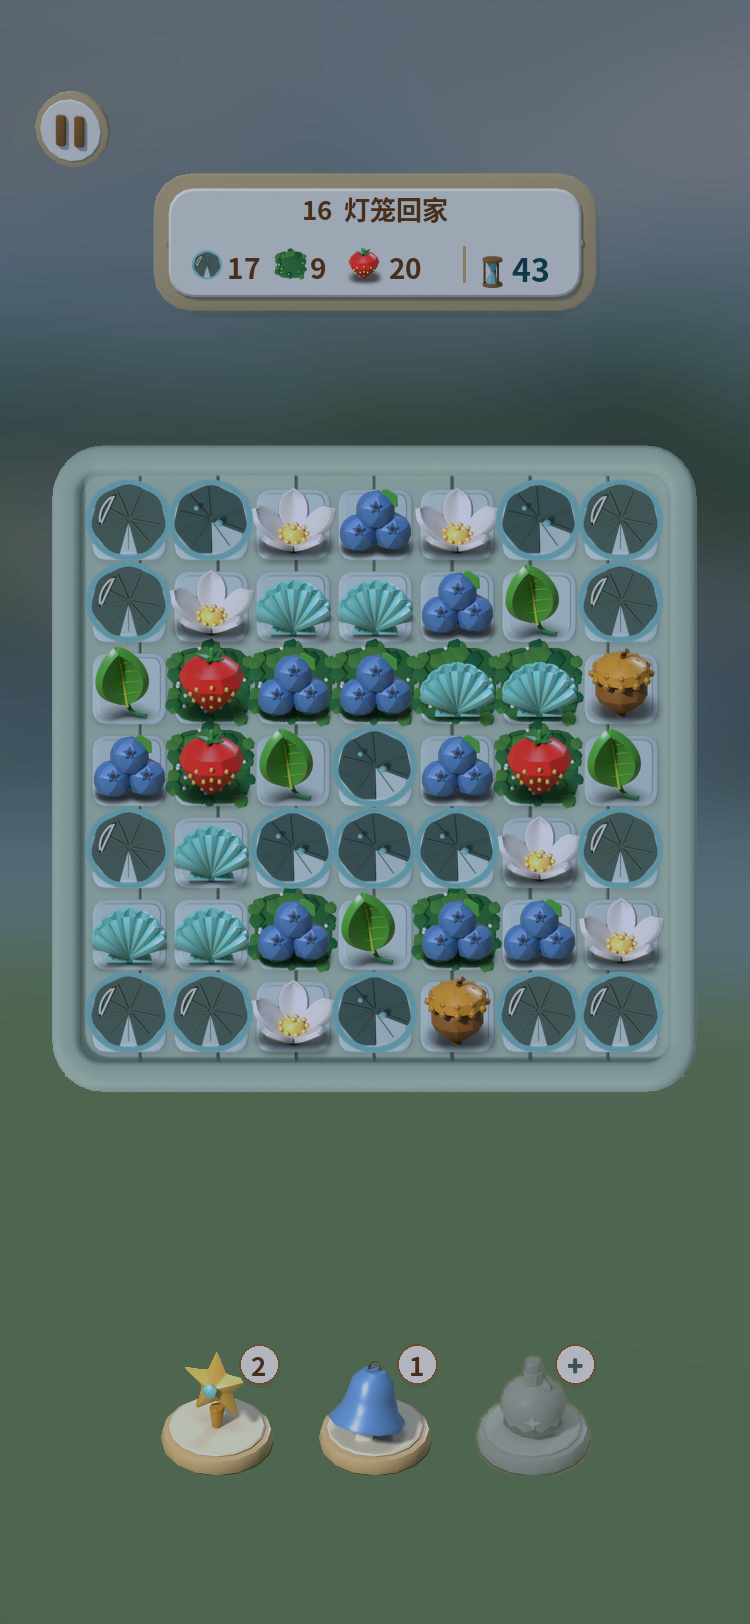
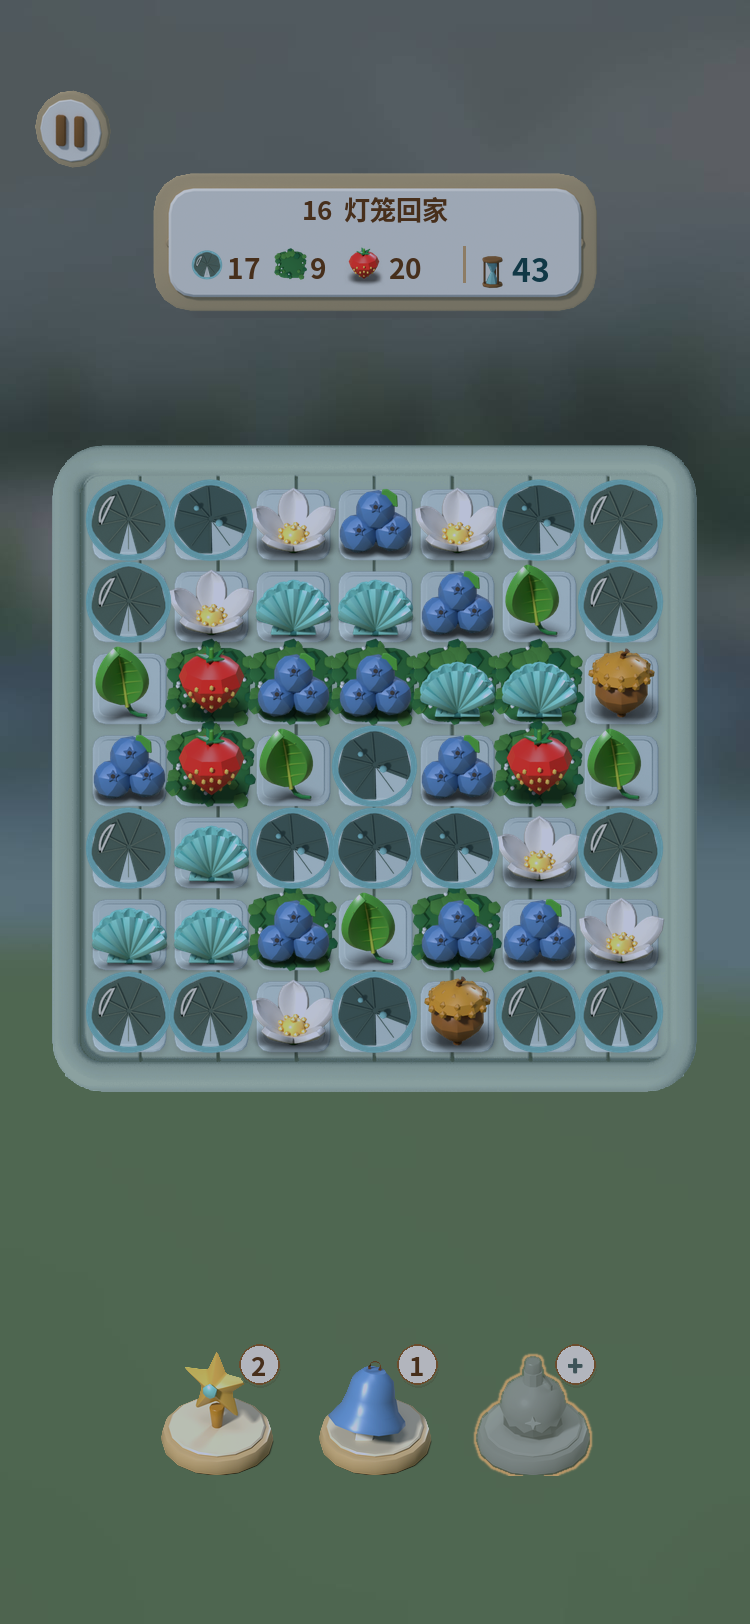
ui(b16): v2.3 远景/夜间/底座描边/WARN 档/弹窗缩放/木牌淡入
- lake_bg v2.3: 大模糊 0.35/32px，仅 y<420 景深，对比 0.92；远树降饱和 0.6
- 夜间 y<500 亮度 ×0.85；空道具底座描边 #c9a26e，不受夜间乘色
- measure_visible: PASS/WARN(余量<1)/FAIL；草地 HSV 75–95°/27–33%/55–68
- ruleGuideDy 接收 popupScale()；规则文案 ≤8 行
- 木牌重试成功：平面按钮 → 3D 木牌 0.2 s 淡入
- 已知：L13 白天/夜间显著性 9.73/9.69 < 10（门槛未放宽）

测试：
  QF_TYPESCRIPT_MODULE=/tmp/ts5/node_modules/typescript node tools/ui-b16-fixes/test_b16_ui_fixes.cjs
  python3 docs/r6/ui/tools/measure_visible.py
  QF_TYPESCRIPT_MODULE=/tmp/ts5/node_modules/typescript node tools/journey-integration/run-suite.cjs

diff --git a/creator-build-project/assets/scripts/WorldIntegrationBoot.ts b/creator-build-project/assets/scripts/WorldIntegrationBoot.ts
@@ -601,7 +601,7 @@ export class WorldIntegrationBoot extends Component {
   * instead the signpost enters as the next step of the same sequence, after the buttons: same 0.25 s, same cubic
   * ease-out, rising the same 24 px out of the water while fading in (IslandProps.setSignEntrance). */
  private applyIslandEntrance(dt:number,mainline:Node|null){if(this.islandEntrance<0&&this.signEntrance<0)return;const step=Math.max(0,Math.min(dt,.1))/.25;
-  if(this.islandEntrance<0){this.signEntrance=Math.min(1,this.signEntrance+step);const e=1-Math.pow(1-this.signEntrance,3);this.setSign(e,24*(1-e));if(this.signEntrance>=1)this.signEntrance=-1;return;}
+  if(this.islandEntrance<0){this.signEntrance=Math.min(1,this.signEntrance+(this.signFadeS>0?Math.max(0,Math.min(dt,.1))/this.signFadeS:step));const e=1-Math.pow(1-this.signEntrance,3);this.setSign(e,24*(1-e));if(this.signEntrance>=1){this.signEntrance=-1;this.signFadeS=0;}return;}
   this.islandEntrance=Math.min(1,this.islandEntrance+step);const e=1-Math.pow(1-this.islandEntrance,3),k=.94+.06*e,dy=-24*(1-e);
   if(mainline?.active&&!this.propSign){const p=mainline.position;mainline.setPosition(p.x,p.y+dy,p.z);mainline.setScale(k,k,1);}
   const dock=this.canvas?.getChildByName('IslandJourneyOverlay')?.getChildByName('IslandUtilityDock');if(dock){dock.setPosition(0,dy,0);dock.setScale(k,k,1);}
@@ -617,7 +617,7 @@ export class WorldIntegrationBoot extends Component {
   * - level/skycity (+ their loading) and paused: unchanged (the island behind the board keeps its sign; no flicker on
   *   a level round trip). */
  private signShown=1;private signOut=-1;private signPrev='';
- private signRetry=0;private signRetryAt=0;
+ private signRetry=0;private signRetryAt=0;/** v2.3：重试成功时的淡入时长（0 = 用常规 0.25 s 入场） */private signFadeS=0;
  private setSign(e:number,risePx:number){const ok=this.islandProps?.setSignEntrance(e,risePx);if(ok!==false)this.signShown=e;} // b16-fix P1: props not ready -> signShown unchanged, so the entrance replays once they are
  private gateSignEntrance(state:string,dt=0){const p=this.islandProps,prev=this.signPrev;this.signPrev=state;if(!p?.ready)return;
   if(SIGN_AWAY_STATES.indexOf(state)>=0){this.signEntrance=-1;
@@ -641,7 +641,7 @@ export class WorldIntegrationBoot extends Component {
   if(s.state!=='island')this.signRetry=0;
   if(sign&&p&&this.islandEntrance<0&&this.signEntrance<0&&typeof (p as any).signVisible==='function'&&!(p as any).signVisible()){
    if(this.signRetry<1){this.signRetry++;this.signShown=0;this.signEntrance=0;}
-   else{const now=Date.now();if(now-this.signRetryAt>=1000){this.signRetryAt=now;this.signRetry++;this.setSign(1,0);}if(!(p as any).signVisible())sign=null;}}
+   else{const now=Date.now();if(now-this.signRetryAt>=1000){this.signRetryAt=now;this.signRetry++;this.setSign(1,0);}if(!(p as any).signVisible())sign=null;else{this.signShown=0;this.signEntrance=0;this.signFadeS=.2;sign={x:sign.x,y:sign.y,width:0,height:0};}}}
   else if(sign&&this.islandEntrance<0&&this.signEntrance<0)this.signRetry=0;
   this.propSign=!!sign;setPropTapLook(!!p?.ready&&(this.propSign||!!this.islandJourney?.dockVisible()));
   if(sign&&(this.islandEntrance>=0||this.signEntrance>=0))sign={x:sign.x,y:sign.y,width:0,height:0}; // hit area live only once the signpost entrance finished

diff --git a/creator-build-project/assets/scripts/ManagedMobileBoardUI.ts b/creator-build-project/assets/scripts/ManagedMobileBoardUI.ts
@@ -5,8 +5,8 @@ import type { LevelBackgroundStatus, LevelBackgroundFrame } from './world-r2/Lev
 import { GameAudio } from './audio/GameAudio';
 import { BoardArt, PIECE_KEYS, TOOL_KEYS, toolDisplaySize } from './ui/BoardArt';
 import { MINIGAME } from 'cc/env';
-import { ruleGuideDy, boardLayout, boardSafeInsets, cellCenter, pickToolBar, qaForcedToolBar, toolSlots, CELL, IdleHintClock, TOAST_S, type BoardLayout, type SafeArea } from './ui/BoardLayout';
-import { PopupStack, TintSet, artButton, makeLabel, measure, playSound, pressable as bindPressable, resetPresses, type PressHandle } from './ui/PopupKit';
+import { ruleGuideDy, RULE_GUIDE_MAX_LINES, boardLayout, boardSafeInsets, cellCenter, pickToolBar, qaForcedToolBar, toolSlots, CELL, IdleHintClock, TOAST_S, type BoardLayout, type SafeArea } from './ui/BoardLayout';
+import { PopupStack, popupScale, TintSet, artButton, makeLabel, measure, playSound, pressable as bindPressable, resetPresses, type PressHandle } from './ui/PopupKit';
 import { INTRO_TEXT, SEEN_ID, openBag, openReward, openSettings, openToolIntro, type RewardItem } from './ui/CommonPanels';
 import { openPause, openRestartConfirm, openResult, type ResultModel, type ResultReward } from './ui/BoardPanels';
 import { hasSeenTool, reducedMotion } from './ui/UiPrefs';
@@ -942,9 +942,9 @@ export class ManagedMobileBoardUI extends Component {
     // b16-fix P2（build05 全流程测试 P2-3：L13 规则弹窗正文左侧被裁约 10px）：正文原来居中、宽 580，比木框内沿（680 宽、两侧木边）还宽，
     // 左右都压到木边下面。改为左对齐、文字盒宽 RULE_BODY_W=480，两侧各留 100（木边约 70 + 安全边距约 30，即屏幕上约 15pt），行数按每段 472 估算，避免 CLAMP 裁字。
     const RULE_BODY_W = 480;
-    const body = [guide.rule, guide.tool?.description].filter(Boolean).join('\n'), lines = Math.min(9, body.split('\n').reduce((n, ln) => n + Math.max(1, Math.ceil(measure(ln, 28) / (RULE_BODY_W - 8))), 0));
+    const body = [guide.rule, guide.tool?.description].filter(Boolean).join('\n'), lines = Math.min(RULE_GUIDE_MAX_LINES, body.split('\n').reduce((n, ln) => n + Math.max(1, Math.ceil(measure(ln, 28) / (RULE_BODY_W - 8))), 0));
     const ph = 104 + 48 + 40 + lines * 40 + 48 + 104 + 72, vw = this.layoutInfo?.width || 390, vh = this.layoutInfo?.height || 844, plateBottom = this.geo ? this.geo.plate.y + this.geo.plate.height / 2 : 0,
-      p = this.popups.open({ name: 'RuleGuidePanel', height: ph, title: guide.title || '这一关的规则', dy: ruleGuideDy(vw, vh, ph, plateBottom, this.layoutInfo?.safe?.bottom ?? 34) });
+      p = this.popups.open({ name: 'RuleGuidePanel', height: ph, title: guide.title || '这一关的规则', dy: ruleGuideDy(vw, vh, ph, plateBottom, this.layoutInfo?.safe?.bottom ?? 34, popupScale(vw, vh)) });
     p.text(guide.phaseLabel + (guide.heldTurns ? ' · 固定 ' + guide.heldTurns + ' 次行动' : ''), 0, 128, 26, 'brown2', { bold: false, width: RULE_BODY_W });
     p.text(body, -RULE_BODY_W / 2, 192 + lines * 20, 28, 'brown', { bold: false, width: RULE_BODY_W, lines, height: lines * 40 + 8, align: 'left', name: 'RuleBody' });
     p.button('primary', '明白了', 0, ph - 72 - 52, 400, 104, () => p.close(), { fontSize: 36, name: 'GotIt' });

diff --git a/creator-build-project/assets/scripts/ui/BoardLayout.ts b/creator-build-project/assets/scripts/ui/BoardLayout.ts
@@ -131,9 +131,12 @@ export function boardSafeInsets(w: number, h: number): SafeArea & { portrait: bo
 
 /** b16-fix（验收 9d4fcaa8：L13 规则弹窗在 320×568 上要不顶到 HUD）：弹窗默认居中；面板顶（含半块标题木牌 52.5 设计 px）若高过信息牌底 + 12 pt，
  *  就整体往下挪，但底边不低于屏幕底安全区上方 12 pt。返回 PopupPanel 的 dy（750 设计 px，正值向下）。纯函数。 */
-export function ruleGuideDy(width: number, height: number, panelH: number, plateBottom: number, safeBottom: number): number {
-  const s = Math.max(0.3, Math.min(width / 750, height / 1300, 0.62)), top = height / 2 - panelH * s / 2 - 52.5 * s, want = plateBottom + 12;
+export function ruleGuideDy(width: number, height: number, panelH: number, plateBottom: number, safeBottom: number, scale: number): number {
+  // v2.3：scale 由调用方传 PopupKit.popupScale(width, height)，这里不再抄缩放公式
+  const s = scale, top = height / 2 - panelH * s / 2 - 52.5 * s, want = plateBottom + 12;
   const room = (height - safeBottom - 12) - (height / 2 + panelH * s / 2);
   const down = Math.max(0, Math.min(want - top, room));
   return down / s;
 }
+/** 规则弹窗正文行数上限（320×568 下 9 行没有余量）。 */
+export const RULE_GUIDE_MAX_LINES = 8;

diff --git a/docs/r6/ui/tools/measure_visible.py b/docs/r6/ui/tools/measure_visible.py
@@ -3,7 +3,8 @@
 #       各可见区域中位色与饱和度：草地、树林、左侧房顶（红色像素）、左缘水面。
 # 合格线（ui-audit 2026-10-22）：背景饱和度 ≤ 棋盘饱和度；显著性 ≥ 10；白天草地约 135/160/95；房顶饱和度 < 40%；夜间湖色 B ≥ G > R。
 # v2.2：加合格判定（ui-audit 2026-10-22/ui-b16-fixes-9d4fcaa8 的 A/B 目标），任一不合格退出码 1。文件名含 night 按夜间判定，或加 --night / --day 强制。
-#   白天：背景 S 22–25% 且 ≤ 棋盘 S；草地中位色 135/160/95 每通道 ±12；左缘水面 G−R>10 且 B−R>10；显著性 ≥10；亮度差(盘−背景) ≥20；房顶 S <40%
+#   v2.3 草地改为 HSV：色相 75–95°、饱和度 27–33%、明度 55–68；夜间加上半屏(y<500 整行)亮度 95–100；离线不到 1 记 WARN。
+#   白天：背景 S 22–25% 且 ≤ 棋盘 S；左缘水面 G−R>10 且 B−R>10；显著性 ≥10；亮度差(盘−背景) ≥20；房顶 S <40%
 #   夜间：背景 S ≤ 棋盘 S；背景亮度 85–95；左缘水面 B−G ≥8 且 B≥G>R；显著性 ≥10；房顶 S <40%
 #   房顶取样 = 左缘 x<52 (y440–860) + 托盘上方 x52–140 (y440–505)，两块合并（v2 漏了后者）。
 # python3 measure_visible.py [--night|--day] IMG.png [...]
@@ -22,7 +23,8 @@ def run(p):
     lum=a@[.2126,.7152,.0722]
     sm=np.asarray(im.resize((188,406)).convert('L')).astype(float)
     S=sal(sm);S=np.array(Image.fromarray(S.astype(np.float32)).resize((750,1624)));S=S/S.sum()
-    out={'board_S%':hsv[m][:,1].mean()/2.55,'bg_S%':hsv[bgm][:,1].mean()/2.55,'board_L':lum[m].mean(),'bg_L':lum[bgm].mean(),'saliency':S[m].mean()/S[bgm].mean()}
+    top=np.zeros(a.shape[:2],bool);top[0:500]=1   # 上半屏 = y<500 整行（与验收口径一致，含 HUD）
+    out={'top_L':lum[top].mean(),'board_S%':hsv[m][:,1].mean()/2.55,'bg_S%':hsv[bgm][:,1].mean()/2.55,'board_L':lum[m].mean(),'bg_L':lum[bgm].mean(),'saliency':S[m].mean()/S[bgm].mean()}
     print('%s\n  饱和度 棋盘 %.1f%%  背景 %.1f%%   亮度 棋盘 %.1f 背景 %.1f   显著性(盘/背景) %.2f'%(p.split('/')[-1],out['board_S%'],out['bg_S%'],out['board_L'],out['bg_L'],out['saliency']))
     for k,box in REG.items():
         boxes=box if isinstance(box,list) else [box]
@@ -33,21 +35,22 @@ def run(p):
             px,hs=px[sel],hs[sel]
         c=np.median(px,0);out[k]=(c,hs[:,1].mean()/2.55);print('  %-10s 中位色 %3d/%3d/%3d  饱和度 %.1f%%  (n=%d)%s'%(k,*c,hs[:,1].mean()/2.55,len(px),'  B≥G>R' if c[2]>=c[1]>c[0] else ''))
     return out
+import colorsys
 def judge(o,night):
-    S=o['board_S%'];bS=o['bg_S%'];g,_=o['grass'];w,_=o['water_left'];_,rs=o['roof_left'];chk=[]
-    chk.append(('背景饱和度 ≤ 棋盘',bS<=S,'%.1f ≤ %.1f'%(bS,S)))
-    chk.append(('显著性 ≥10',o['saliency']>=10,'%.2f'%o['saliency']))
-    chk.append(('房顶饱和度 <40%',rs<40,'%.1f%%'%rs))
+    # 每项 (名称, 实测值, 下限, 上限)；合格且离任一条线不到 1 个单位 → WARN（v2.3）
+    S=o['board_S%'];bS=o['bg_S%'];g,gs=o['grass'];w,_=o['water_left'];_,rs=o['roof_left']
+    h,_,v=colorsys.rgb_to_hsv(*(np.array(g)/255.0));gh,gv=h*360,v*100
+    inf=float('inf');chk=[('背景饱和度 − 棋盘 ≤0',bS-S,-inf,0),('显著性 ≥10',o['saliency'],10,inf),('房顶饱和度 <40%',rs,-inf,40)]
     if night:
-        chk.append(('背景亮度 85–95',85<=o['bg_L']<=95,'%.1f'%o['bg_L']))
-        chk.append(('水面 B−G ≥8 且 B≥G>R',w[2]-w[1]>=8 and w[2]>=w[1]>w[0],'%d/%d/%d'%tuple(w)))
+        chk+=[('背景亮度 85–95',o['bg_L'],85,95),('上半屏亮度 95–100',o['top_L'],95,100),('水面 B−G ≥8',w[2]-w[1],8,inf),('水面 G−R >0',w[1]-w[0],1e-9,inf)]
     else:
-        chk.append(('背景饱和度 22–25%',22<=bS<=25,'%.1f'%bS))
-        chk.append(('草地 135/160/95 ±12',all(abs(g[i]-t)<=12 for i,t in enumerate((135,160,95))),'%d/%d/%d'%tuple(g)))
-        chk.append(('水面 G−R>10 且 B−R>10',w[1]-w[0]>10 and w[2]-w[0]>10,'%d/%d/%d'%tuple(w)))
-        chk.append(('亮度差 ≥20',o['board_L']-o['bg_L']>=20,'%.1f'%(o['board_L']-o['bg_L'])))
-    for n,okk,v in chk: print('  %s %s  (%s)'%('PASS' if okk else 'FAIL',n,v))
-    return all(c[1] for c in chk)
+        chk+=[('背景饱和度 22–25%',bS,22,25),('草地色相 75–95°',gh,75,95),('草地饱和度 27–33%',gs,27,33),('草地明度 55–68',gv,55,68),
+              ('水面 G−R >10',w[1]-w[0],10+1e-9,inf),('水面 B−R >10',w[2]-w[0],10+1e-9,inf),('亮度差 ≥20',o['board_L']-o['bg_L'],20,inf)]
+    allok=True
+    for n,val,lo,hi in chk:
+        ok=lo<=val<=hi; m=min(val-lo,hi-val); allok&=ok
+        print('  %s %s  (%.2f%s)'%('FAIL' if not ok else 'WARN' if m<1 else 'PASS',n,val,'' if not ok else '，余量 %.2f'%m))
+    return allok
 force=None;files=[]
 for a in sys.argv[1:]:
     if a in('--night','--day'): force=a=='--night'

diff --git a/docs/r6/ui/tools/lake_bg.py b/docs/r6/ui/tools/lake_bg.py
@@ -35,9 +35,12 @@ def lake_tint(d,k):
     m=np.clip(np.minimum(y-y0,y1-y)/f,0,1)*k; a=a*(1-m[...,None])+np.array(LAKE_RGB)*m[...,None]
     return Image.fromarray(a.clip(0,255).astype(np.uint8))
 import os as _os
-DAY_CONTRAST=0.85   # v2.2：背景整体对比压到 0.85（围绕全图均值），压低背景显著性
-SOFT_K,SOFT_BLUR=0.7,48   # v2.2：大尺度模糊混入比例（压背景边缘对比、保留中尺度形体）
-for _k in ('DAY_SAT','DAY_VAL','FOG','BLUR','LAKE_K','NIGHT_SAT','SOFT_K','DAY_CONTRAST'):
+DAY_CONTRAST=0.92   # v2.3：0.85→0.92（暗部别抬灰）（围绕全图均值），压低背景显著性
+SOFT_K,SOFT_BLUR=0.35,32   # v2.3：远景大模糊混入 0.35、半径 32，只作用在 y<420（v2.2 0.7/48 全屏，远景过糊）
+SOFT_Y,SOFT_F=420,40
+TREE_BOX,TREE_SAT=(0,0,750,505),0.6
+TREE_CONTRAST=0.75   # v2.3：远景（y<505）明暗对比压缩系数，补显著性；显著性按灰度算，降饱和补不了
+for _k in ('DAY_SAT','DAY_VAL','FOG','BLUR','LAKE_K','NIGHT_SAT','SOFT_K','DAY_CONTRAST','TREE_SAT','TREE_CONTRAST'):
     if _os.environ.get('LB_'+_k): globals()[_k]=float(_os.environ['LB_'+_k])
 BLUR=int(BLUR)
 GRASS_Y,GRASS_F,GRASS_MUL=1080,80,(1.0,1.03,0.95)   # v2.2：前景草地回暖（B 压低），目标约 135/160/95
@@ -45,27 +48,34 @@ def grass_warm(d):
     a=np.asarray(d).astype(float); y=np.arange(H)[:,None]; m=np.clip((y-GRASS_Y)/GRASS_F,0,1)[...,None]
     a=a*(1+(np.array(GRASS_MUL)-1)*m); return Image.fromarray(a.clip(0,255).astype(np.uint8))
 def day(b):
-    d=hsv_scale(b,DAY_SAT,DAY_VAL); d=roof_fix(d); d=lake_tint(d,LAKE_K); d=grass_warm(d)
+    d=hsv_scale(b,DAY_SAT,DAY_VAL); d=roof_fix(d); d=lake_tint(d,LAKE_K); d=grass_warm(d); d=tree_desat(d,TREE_SAT)
     d=Image.blend(d,Image.new('RGB',(W,H),FOG_RGB),FOG)
     d=soft(d); a=np.asarray(d).astype(float); mu=a.reshape(-1,3).mean(0)
     return Image.fromarray((mu+DAY_CONTRAST*(a-mu)).clip(0,255).astype(np.uint8))   # v2.2：背景整体对比压到 DAY_CONTRAST
 def soft(d):
-    a=d.filter(ImageFilter.GaussianBlur(BLUR))
-    # 景深：托盘上方的远景树林（y<520）整块用大模糊，往下到 y720 过渡回 SOFT_K
-    b=np.asarray(d.filter(ImageFilter.GaussianBlur(SOFT_BLUR))).astype(float); a=np.asarray(a).astype(float)
-    y=np.arange(H)[:,None]; w=np.clip(SOFT_K+(1-SOFT_K)*(720-y)/200,SOFT_K,1)[...,None]
+    a=np.asarray(d.filter(ImageFilter.GaussianBlur(BLUR))).astype(float)
+    b=np.asarray(d.filter(ImageFilter.GaussianBlur(SOFT_BLUR))).astype(float)
+    y=np.arange(H)[:,None]; w=(np.clip((SOFT_Y-y)/SOFT_F,0,1)*SOFT_K)[...,None]   # 只在 y<420 混入大模糊，380–420 羽化
     return Image.fromarray((a*(1-w)+b*w).clip(0,255).astype(np.uint8))
+def tree_desat(d,k):
+    if k>=1 and TREE_CONTRAST>=1: return d
+    x0,y0,x1,y1=TREE_BOX; top=d.crop(TREE_BOX); t=hsv_scale(top,k,1.0)
+    if TREE_CONTRAST<1: ta=np.asarray(t).astype(float); mu=ta.reshape(-1,3).mean(0); t=Image.fromarray((mu+TREE_CONTRAST*(ta-mu)).clip(0,255).astype(np.uint8))   # 远景明暗对比压缩（不是模糊）
+    m=Image.linear_gradient('L').resize((x1-x0,y1-y0)).point(lambda v:255 if v<200 else int((255-v)*255/55)); out=d.copy(); out.paste(t,(x0,y0),m); return out
 NIGHT_LAKE_RGB,NIGHT_LAKE_K,NIGHT_CONTRAST=(40,66,100),0.45,0.70   # v2.2 夜间：湖面带混深蓝青（B 比 G 高 8 以上），对比压到 0.70
 for _k in ('NIGHT_LAKE_K','NIGHT_CONTRAST'):
     if _os.environ.get('LB_'+_k): globals()[_k]=float(_os.environ['LB_'+_k])
 def night(b):
     b=roof_fix(b); r,g,bl=b.split()
     n=Image.merge('RGB',[c.point(lambda v,k=k,l=l:min(255,int(v*k+l))) for c,k,l in zip((r,g,bl),NIGHT,NIGHT_LIFT)])
-    n=keep_value_desat(n,NIGHT_SAT)
+    n=keep_value_desat(n,NIGHT_SAT); n=tree_desat(n,NIGHT_TREE_SAT)
     a=np.asarray(n).astype(float); y=np.arange(H)[:,None]; y0,y1,f=LAKE_BAND
     m=(np.clip(np.minimum(y-y0,y1-y)/f,0,1)*NIGHT_LAKE_K)[...,None]; a=a*(1-m)+np.array(NIGHT_LAKE_RGB)*m
     n=soft(Image.fromarray(a.clip(0,255).astype(np.uint8))); a=np.asarray(n).astype(float); mu=a.reshape(-1,3).mean(0)
-    return Image.fromarray((mu+NIGHT_CONTRAST*(a-mu)).clip(0,255).astype(np.uint8))
+    a=mu+NIGHT_CONTRAST*(a-mu); t=(1-(1-NIGHT_TOP)*np.clip((NIGHT_TOP_Y-y)/60,0,1))[...,None]   # v2.3：夜间上半屏（y<500，440–500 羽化）亮度 ×0.85
+    return Image.fromarray((a*t).clip(0,255).astype(np.uint8))
+NIGHT_TOP,NIGHT_TOP_Y=0.85,500
+NIGHT_TREE_SAT=float(_os.environ.get('LB_NIGHT_TREE_SAT','0.6'))
 if __name__=='__main__':
     b=base()
     for im,name in ((day(b),'bg_lakeside_board.jpg'),(night(b),'bg_lakeside_board_night.jpg')):

diff --git a/art-src/board-ui/b-board/src/compose.py b/art-src/board-ui/b-board/src/compose.py
@@ -10,6 +10,8 @@ BROWN=(99,63,33); CREAM=(248,242,226)
 # 空道具位「+」：禁用态灰青。r6-fix v2 压到 #56706a（夜间乘 #b8bfd6 后给 4.5 留余量），笔画 +1px@750。旧 #78968c 只有 2.87 / 2.58
 PLUS_DIM=(86,112,106)
 WARM_RIM=(176,138,92,255)   # 空道具底座描边：托盘木边同色系
+NIGHT_RIM=(0xc9,0xa2,0x6e)   # v2.3：夜间描边终色（画在夜间乘色之后，不受 #b8bfd6 影响）
+RIMS=[]
 def L(n): return Image.open(os.path.join(RAW,n+'.png')).convert('RGBA')
 def scaled(im,f): return im.resize((max(1,round(im.width*f)),max(1,round(im.height*f))),Image.LANCZOS)
 def paste_c(dst,im,cx,cy): dst.alpha_composite(im,(round(cx-im.width/2),round(cy-im.height/2)))
@@ -150,7 +152,7 @@ def tools(img,state):
         if dim:   # v2.2：空道具底座在灰背景上看不见 → 1pt（750 宽 2px）暖木色描边，抗锯齿
             a=t.getchannel('A').point(lambda v:255 if v>40 else 0); ring=a.filter(ImageFilter.MaxFilter(5)).filter(ImageFilter.GaussianBlur(0.8))
             o=Image.new('RGBA',t.size,WARM_RIM); o.putalpha(ImageChops.subtract(ring,a.filter(ImageFilter.GaussianBlur(0.6))).point(lambda v:min(255,int(v*0.85))))
-            paste_c(img,o,x,y)
+            paste_c(img,o,x,y); RIMS.append((o.getchannel('A'),x,y))
         paste_c(img,t,x,y)
         badge(img,x+42,y-40,cnt,dim)
 # ---------------- frames ----------------

diff --git a/docs/r6/ui/tools/compose_region.py b/docs/r6/ui/tools/compose_region.py
@@ -90,7 +90,10 @@ if NIGHT:   # 夜间：背景用夜间渲染；整盘 UI 按 b-board 约定乘 #
     out=ImageChops.multiply(out,ui)
     # 背景部分换成夜间渲染（托盘外）：用 UI 层 alpha 近似 = 托盘框 + HUD + 道具区之外
     ov=Image.new('RGBA',(W,H),(0,0,0,0)); draw(ov); hud2(ov)
+    RIMS.clear()
     if LV.get('tools',True): tools(ov,'tools')
     a=ov.getchannel('A').filter(ImageFilter.MinFilter(3)).point(lambda v:0 if v<60 else min(255,int((v-60)*255/80)))
     out=Image.composite(out,bgn,a)
+    for ra,rx,ry in RIMS:   # v2.3：空道具底座描边夜间用 #c9a26e，叠在乘色之后
+        l=Image.new('RGB',ra.size,NIGHT_RIM); out.paste(l,(round(rx-ra.width/2),round(ry-ra.height/2)),ra)
 out.save(OUTP,optimize=True); print('ok',OUTP)
